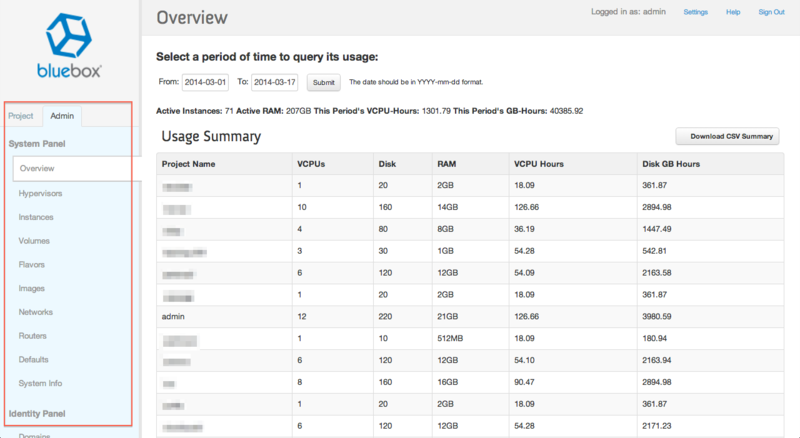
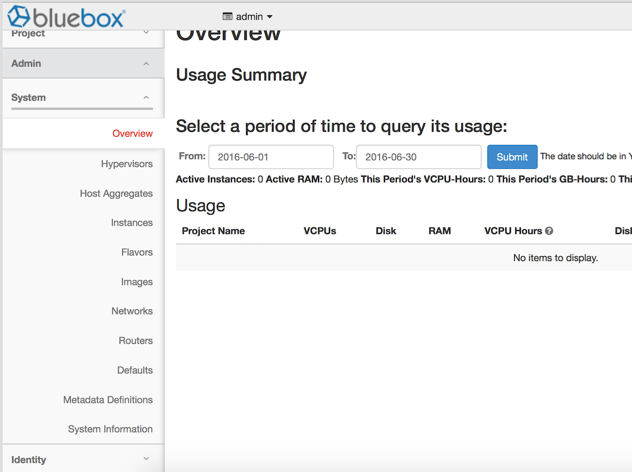
Replace the Admin dashboard image and update the corresponding fields
Replace the Admin dashboard image and update the corresponding fields
in the topic

diff --git a/_horizon/horizon-for-administrators.md b/_horizon/horizon-for-administrators.md
@@ -10,12 +10,12 @@ weight: 4
 
 **Administration in Horizon**
 
-In addition to Horizon's standard **OpenStack** management features, `admin` users have access to an `admin` tab on the left navigation area, providing access to the **System Panel** and **Identity Panel**. Let's look at what features are offered in these sections.
+In addition to Horizon's standard **OpenStack** management features, `admin` users have access to an `admin` tab on the left navigation area, providing access to the **System** panel and the **Identity** panel. Let's look at what features are offered in these sections.
 
 ![Identity Panel]({{site.baseurl}}/img/Identity_Panel.png)
 
-**Identity Panel**
-Let's start at the bottom with the **Identity Panel**, which enables `admin` users to administer the Keystone service. In this panel, you create and delete users, projects, groups and roles.
+## Identity
+Let's start at the bottom with **Identity**, which enables `admin` users to administer the Keystone service. In this panel, you create and delete users, projects, groups and roles.
 
 Key terms are:
 
@@ -25,20 +25,30 @@ Key terms are:
 
 **Role**: A personality that a user assumes that enables them to perform a specific set of operations.
 
-Users are assigned a *role*. Then they are assigned to a *project* that has a predefined *quota* of resources.
+**Groups**: A groups work as the link between users and roles. 
 
-**System Panel**
+**Domains**: A domain defines the administrative boundaries for management of Keystone entities. A domain can represent an individual, company, or operator owned space. 
 
-Back at the top, the **System Panel** provides details about the state of your private **OpenStack** cluster. Let's take a look at the most commonly used options.
+Users are assigned a *role*. Then they are assigned to a *project* that has a predefined *quota* of resources. See [Managing users and groups](http://ibm-blue-box-help.github.io/help-documentation/keystone/Managing_Users_and_Projects/) for more information. 
 
-1. **Overview**: This option provides a list of all projects currently running on your private **OpenStack** cluster. The **Overview** also describes the number of vCPUs, amount of RAM and disk being consumed by each project, as well as disk and vCPU hours for each project.
+## System
 
-2. **Hypervisor**: The Hypervisor option provides insight into the machines that undergird your **OpenStack** private cloud. Navigate here to see capacity and usage metrics for each hypervisor.
+Back at the top, the **System** panel provides details about the state of your private OpenStack cluster. Let's take a look at the most commonly used options.
 
-3. **Instances and Volumes**: These options allow you to get more detail about all running instances and volumes in your IBM Blue Box Cloud. You can also delete instances and volumes from these pages.
+1. **Overview**: This option provides a list of all projects currently running on your private OpenStack cluster. The Overview also describes the number of vCPUs, amount of RAM and disk being consumed by each project, as well as disk and vCPU hours for each project.
+
+2. **Hypervisor**: The Hypervisor option provides insight into the machines that undergird your OpenStack private cloud. Navigate here to see capacity and usage metrics for each hypervisor.
+
+3. **Host Aggregates**: This option provides a list of host aggredates and availablity zones. See [Host Aggregates wiki](https://wiki.openstack.org/wiki/Host-aggregates) for more information.
+
+3. **Instances**: This option allows you to get more detail about all running instances in your IBM Blue Box Cloud. You can also delete instances from these pages.
 
 4. **Flavors and Images**: Create your own flavors and upload custom images. Be sure to set access to public so these new flavors and images are available within your projects.
 
+5. **Networks and Routers**: These options allow you to manage all networks and routers in your IBM Blue Box Cloud.
+
 5. **Defaults**: Set the quota set by default for all new tenants.
+
+6. **Metadata Defintions**: Manage all the customized metadata definitions. 
 
 6. **System Info**: Review details about all services available and running on your **OpenStack** private cloud. It is also possible to check the status of a given service from this menu.
